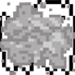
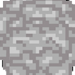
Pelea con animaciones. Round 1

diff --git a/DogQuest/entities.py b/DogQuest/entities.py
@@ -32,6 +32,7 @@ class DogStatus(enum.Enum):
 
 class Dog(pg.sprite.Sprite):
     num_imgs_kill = 9
+    anim_ret = 5
 
     def __init__(self, x, y, vy):
         pg.sprite.Sprite.__init__(self)
@@ -40,17 +41,33 @@ class Dog(pg.sprite.Sprite):
         self.y = y
         self.vy = vy
 
-        self.kill = False
+        self.image_kill = self.kill_animation_load()
+        self.ix_kill = 0
+        self.refresh = 0
+        self.ticks_plus = 0
+        self.ticks_animation_frame = 1000//FPS * self.anim_ret
+
+        self.status = DogStatus.Alive
 
         self.image = pg.image.load("Resources/Images/dog.png").convert_alpha()
+
         self.rect = self.image.get_rect(x=x, y=y)
         self.rect.x = self.x
+
+    def reset(self):
+        self.ix_kill = 0
+        self.ticks_plus = 0
+        self.status = DogStatus.Alive
+        self.rect.x = self.x
+        self.rect.y = self.y
     
     def update(self):
+        if self.status == DogStatus.Dying:
+            return
+
         self.y += self.vy
         self.rect.y += self.vy
         
-
     def control(self):
         key_pressed = pg.key.get_pressed()
         if key_pressed[K_w]:
@@ -68,12 +85,33 @@ class Dog(pg.sprite.Sprite):
         screen.blit(self.image, (self.x, self.y))
 
     def kill_animation_load(self):
-        return [pg.image.load(f"Resources/Images/killdog0{i}.png") for i in range(self.num_imgs_kill)]
+        return [pg.image.load(f"Resources/Images/dogkill0{i}.png") for i in range(self.num_imgs_kill)]
+
+    def kill(self, dt):
+        if self.ix_kill >= len(self.num_imgs_kill):
+            self.status = DogStatus.Killed
+        
+        self.image = self.image_kill[self.ix_kill]
+
+        self.ticks_plus += dt
+        if self.ticks_plus >= self.ticks_animation_frame:
+            self.ix_kill += 1
+            self.ticks_plus = 0
+        
+        return False
+    
+    def update_image(self):
+        self.update()
+
+        if self.status == DogStatus.Dying:
+            return self.kill(dt)
+        
 
 
 class Obstacle(pg.sprite.Sprite):
     def __init__(self, x, y, vx):
         pg.sprite.Sprite.__init__(self)
+
 
         self.x = x
         self.y = y
@@ -192,6 +230,9 @@ class Game:
                         self.lives -= 1
                         obstacle.vx = 0
                         obstacles.remove(obstacle)
+            
+                if self.lives == 0:
+                    self.dog.status == DogStatus.Dying
 
 
             events = pg.event.get()
@@ -203,7 +244,9 @@ class Game:
                     sys.exit()
             
             self.dog.control()
-            self.dog.update()
+            self.dog.update_image()
+
+            print(self.dog.status)
 
             self.redraw_main()
 

diff --git a/DogQuest/__init__.py b/DogQuest/__init__.py
@@ -1,4 +1,2 @@
 GAME_DIMENSIONS = (800, 600)
 FPS = 60
-
-
